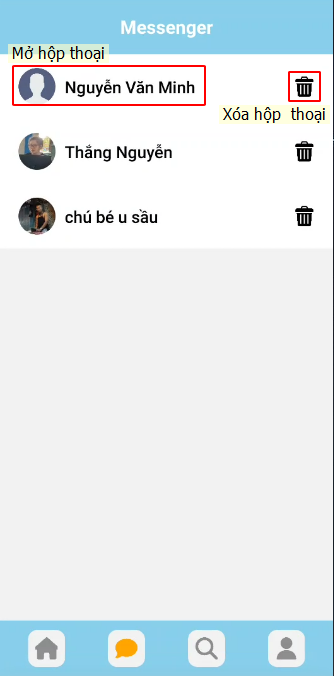
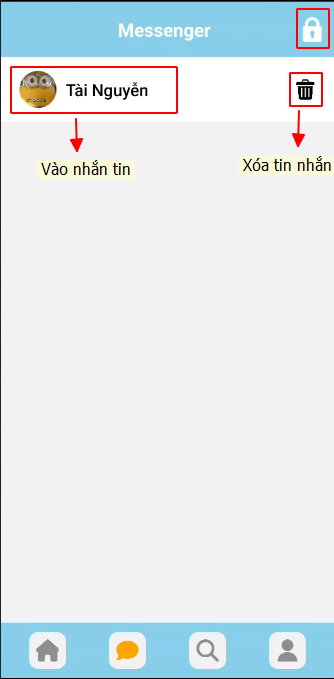
11:53 sua fe

diff --git a/Screens/tabs/Chat.js b/Screens/tabs/Chat.js
@@ -25,6 +25,9 @@ const Chat = () => {
     const [checkPassLock, setCheckPassLock] = useState('');
     const [scurity2Layer, setScurity2Layer] = useState('');
 
+    //xoa tin nhan
+    const [openModal, setOpenModal] = useState(false);
+
     const getAllChats = async () => {
         myId = await AsyncStorage.getItem('USERID');
 
@@ -66,14 +69,13 @@ const Chat = () => {
                 }
             })
     }
-    
+
     const checkScurity = async () => { // như trên
         // getVerify();
         if (scurity2Layer == '') {
             setUnLock(false);
         }
-        else 
-        {
+        else {
             if (checkPassLock === scurity2Layer) {
                 setUnLock(false);
             }
@@ -151,7 +153,7 @@ const Chat = () => {
                                 height: 37,
                                 marginTop: 5,
                                 justifyContent: 'center',
-                                color:'black',
+                                color: 'black',
 
                             }}
                             value={checkPassLock}
@@ -235,7 +237,7 @@ const Chat = () => {
                             <TouchableOpacity
                                 style={{ marginEnd: 20 }}
                                 onPress={() => {
-                                    deleteChat(item.userId);
+                                    setOpenModal(!openModal)
                                 }}
                             >
                                 <Image
@@ -243,6 +245,38 @@ const Chat = () => {
                                     style={{ width: 22, height: 22, marginLeft: 20, tintColor: 'black', }}
                                 />
                             </TouchableOpacity>
+                            <Modal
+                                visible={openModal}
+                                animationType="fade"
+                                transparent={true}
+                            >
+                                <View
+                                    style={{ flex: 1, justifyContent: 'center', alignItems: 'center' }}>
+                                    <View
+                                        style={{ backgroundColor: 'white', padding: 20, borderRadius: 10, flexDirection: 'column', borderWidth: 0.3, borderColor: 'grey' }}>
+                                        <Text
+                                            style={{ color: 'black' }}>Bạn muốn xóa tin nhắn này</Text>
+                                        <View style={{ flexDirection: 'row' }}>
+                                            <TouchableOpacity
+                                                onPress={() => {
+                                                    setOpenModal(false)
+                                                }}>
+                                                <Text
+                                                    style={{ marginTop: 20, color: 'black', marginStart: 20, fontWeight: 'bold' }}>Hủy</Text>
+                                            </TouchableOpacity>
+                                            <View style={{ flex: 1 }}></View>
+                                            <TouchableOpacity
+                                                onPress={() => {
+                                                    deleteChat(item.userId);
+                                                    setOpenModal(false)
+                                                }}>
+                                                <Text
+                                                    style={{ marginTop: 20, color: 'blue', marginEnd: 20, fontWeight: 'bold' }}>Xóa</Text>
+                                            </TouchableOpacity>
+                                        </View>
+                                    </View>
+                                </View>
+                            </Modal>
                         </View>
 
                     );

diff --git a/Screens/Setting.js b/Screens/Setting.js
@@ -515,7 +515,7 @@ function Setting(props) {
                                     padding: 5,
                                     fontWeight: 'bold',
 
-                                }}>Lưu</Text>
+                                }}> Lưu </Text>
                             </View>
                         </TouchableOpacity>
                     </View>
@@ -682,7 +682,7 @@ function Setting(props) {
                                     padding: 5,
                                     fontWeight: 'bold',
 
-                                }}>Lưu</Text>
+                                }}> Lưu </Text>
                             </View>
                         </TouchableOpacity>
                     </View>
@@ -770,7 +770,7 @@ function Setting(props) {
                             fontSize: 15,
                             padding: 5,
                             fontWeight: 'bold',
-                        }}>Lưu</Text>
+                        }}> Lưu </Text>
                     </View>
                 </TouchableOpacity>
             </View> : ""}
@@ -866,7 +866,7 @@ function Setting(props) {
                                     padding: 5,
                                     fontWeight: 'bold',
 
-                                }}>Lưu</Text>
+                                }}> Lưu </Text>
                             </View>
                         </TouchableOpacity>
                     </View>
@@ -953,7 +953,7 @@ function Setting(props) {
                                     padding: 5,
                                     fontWeight: 'bold',
 
-                                }}>Lưu</Text>
+                                }}> Lưu </Text>
                             </View>
                         </TouchableOpacity>
                     </View>
@@ -1042,7 +1042,7 @@ function Setting(props) {
                                     fontSize: 15,
                                     padding: 5,
                                     fontWeight: 'bold',
-                                }}>Lưu</Text>
+                                }}> Lưu </Text>
                             </View>
                         </TouchableOpacity>
                     </View>
@@ -1192,7 +1192,7 @@ function Setting(props) {
                                     padding: 5,
                                     fontWeight: 'bold',
 
-                                }}>Lưu</Text>
+                                }}> Lưu </Text>
                             </View>
                         </TouchableOpacity>
                     </View>
@@ -1217,7 +1217,7 @@ function Setting(props) {
                     fontSize: 15,
                     paddingStart: 5,
 
-                }}>Bảo mật hai lớp</Text>
+                }}>Bảo mật tin nhắn</Text>
                 <View style={{ flex: 1 }} ></View>
                 <Switch
                     trackColor={{ false: 'grey', true: 'skyblue' }}
@@ -1257,7 +1257,7 @@ function Setting(props) {
                         onChangeText={txt => {
                             setPassClass2(txt); //aaa
                         }}
-                        placeholder='Nhập mật khẩu lớp 2'
+                        placeholder='Nhập mật khẩu bảo mật'
                         placeholderTextColor={'grey'}
                     />
                     <View style={{
@@ -1285,7 +1285,7 @@ function Setting(props) {
                                     fontSize: 15,
                                     padding: 5,
                                     fontWeight: 'bold',
-                                }}>Đặt</Text>
+                                }}> Đặt </Text>
                             </View>
                         </TouchableOpacity>
                     </View>
